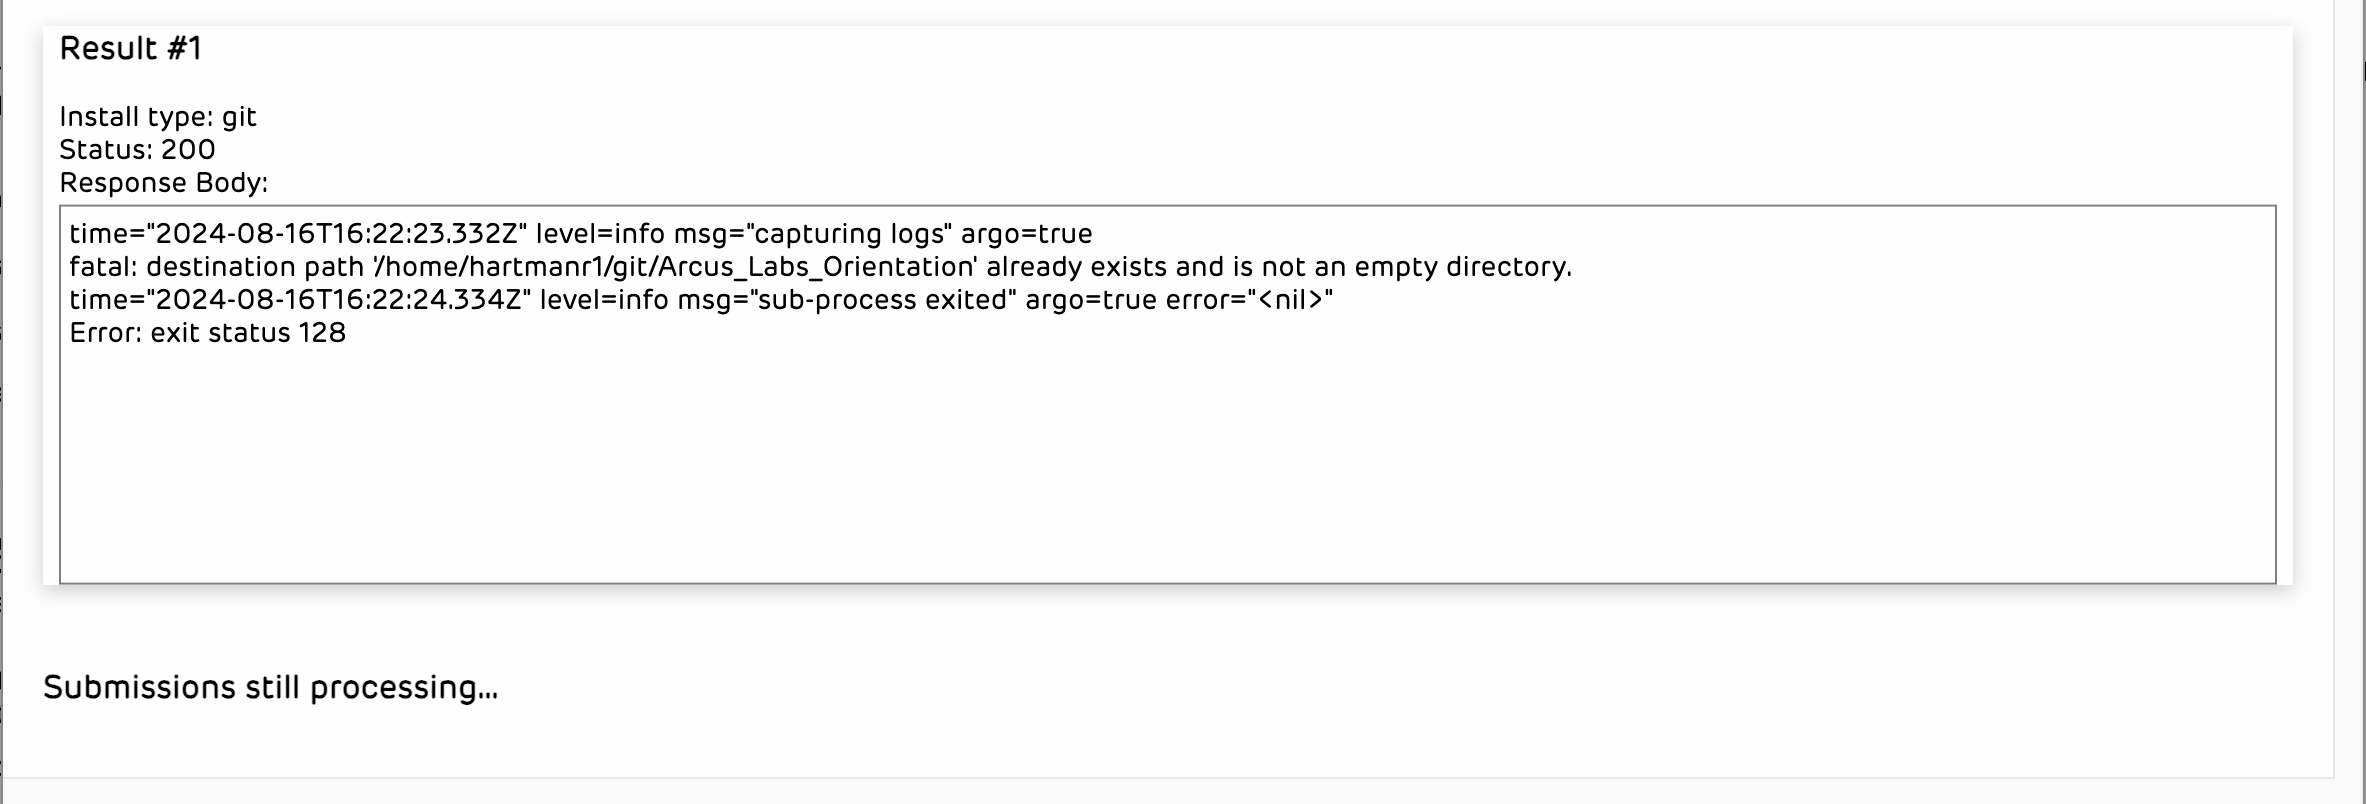
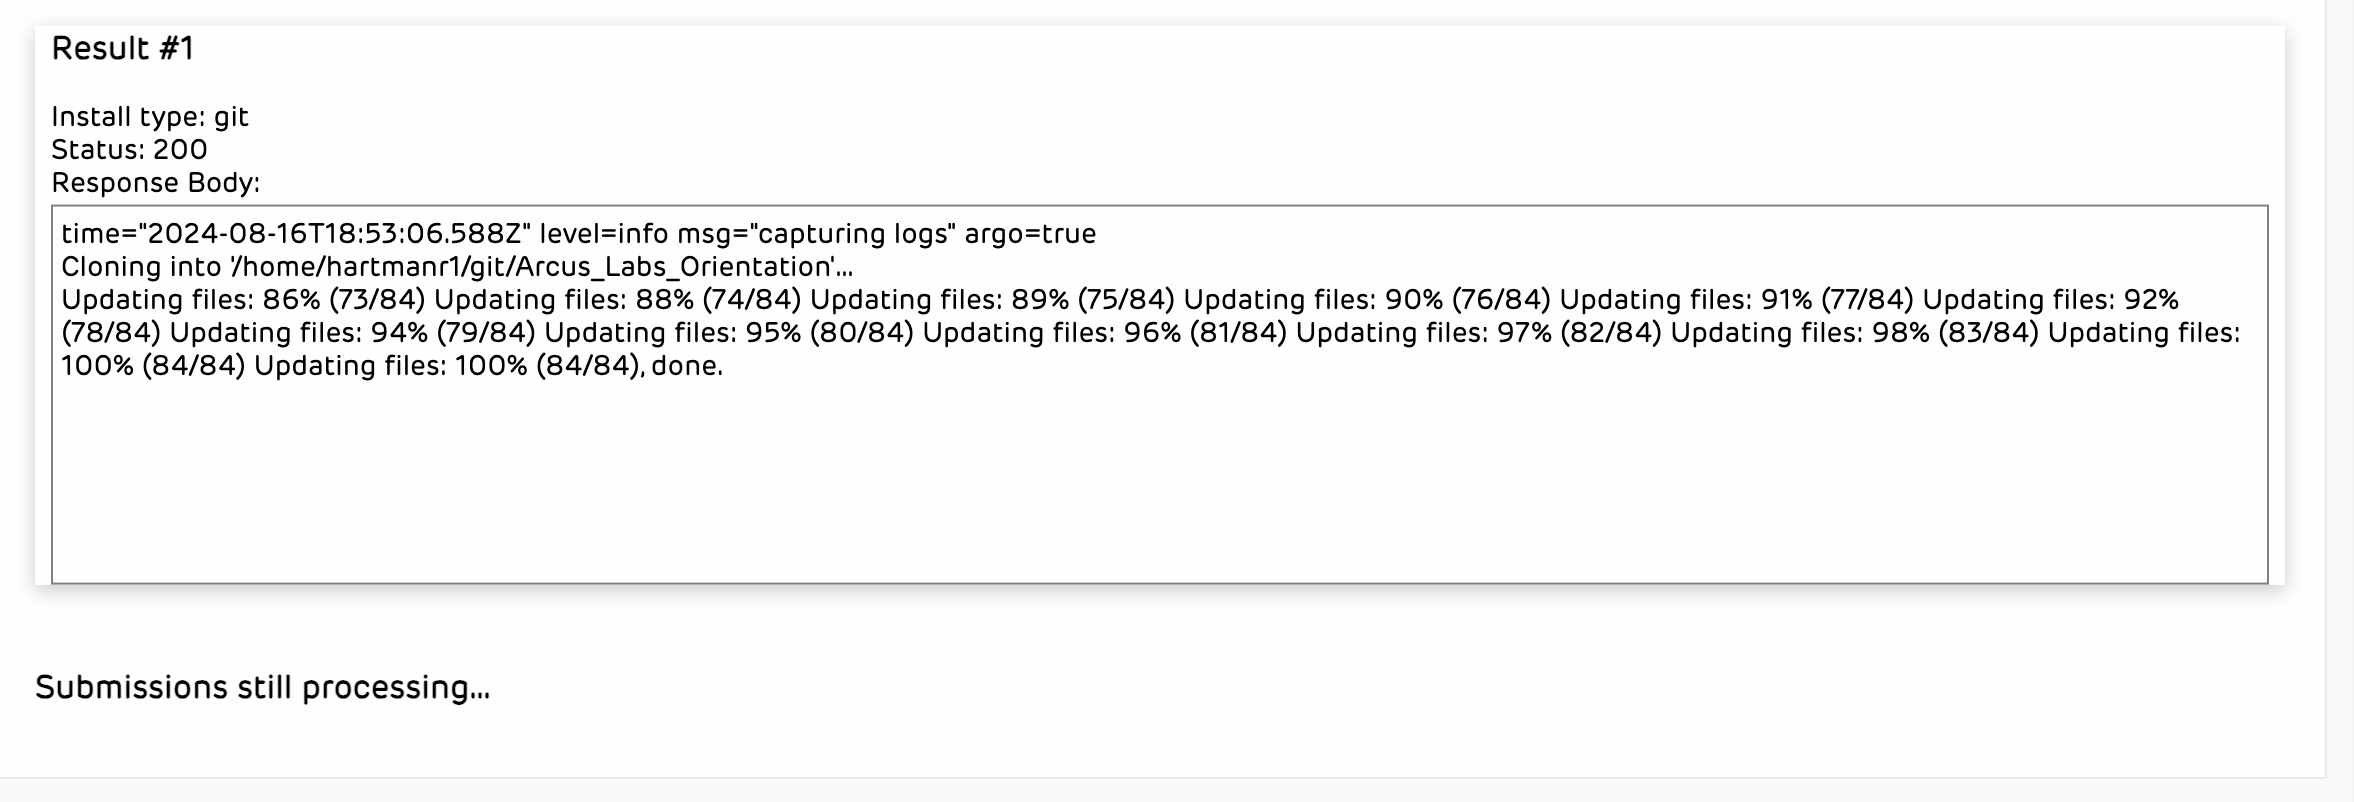
Add explanation for screenshots

diff --git a/arcus_orientation.md b/arcus_orientation.md
@@ -747,14 +747,42 @@ If you want to clone a repository hosted on github.com, you can do that while ke
 
 ![An Arcus Lab dashboard, showing the Tools section with "Install packages, downloads, and more" at the end of the list.](media/install_dashboard.png)
 
+When you open the Install Form tool, select "Git" from the install option drop down menu.
+
 ![The Arcus Install tool, with "Git" selected from the install option drop down menu.](media/install_git.png)
+
+Copy the URL for the repository you wish to clone. 
+Also fill in what you want to use as the local repository name; usually, this will be the same as the repository name, but you can write in something else if you prefer. 
+This will be the name of the directory the files will be saved in in your lab, under the `git` subdirectory within your home directory.
+Enter the name of the branch you wish to clone; if you leave it blank, it will clone the default branch for that repository (usually `main`, or `master` for older repositories).
 
 ![The Arcus Install tool, with "https://github.com/arcus/Arcus_Labs_Orientation" entered for "Enter the URL to the repository you would like to clone." "Arcus_Labs_Orientation" is entered for "Enter local repository name." "Enter branch name" is left blank.](media/install_git_repository.png)
 
+After you click "Submit", it will begin cloning the repository.
+You'll see the directory it's cloning to in the messages on the screen -- this will be `~/git/repository_name` where `~` is your home directory (your CHOP username), and `repository_name` is whatever you entered in the Install form.
+In this example, it's `/home/hartmanr1/git/Arcus_Labs_Orientation`.
+
 ![After you click "Submit," the install form is replaced by a box showing progress cloning the repository. A printed message at the bottom of the box reads "Submissions still processing..."](media/install_git_processing.png)
+
+When cloning is complete, click OK to close the submission status box. 
 
 ![When cloning is complete, the text at the bottom of the box is replaced with "Submissions have finished processing" followed by a button that says "OK."](media/install_git_finished.png)
 
+This repository is now available locally in your lab, saved within the `git` subdirectory of your home directory.
+You can navigate to that directory from within any of the other tools in your Arcus Lab (RStudio, Jupyter, etc.).
+
+Note that [files in your home directory are visible only to you](https://forum.arcus.chop.edu/t/which-files-in-my-lab-are-shared-with-the-rest-of-my-team-and-which-are-just-mine/686).
+If you wish to share these files with the other users in your lab, you'll need to move them to a shared directory, such as your `project` folder.
+
+<div class = "help">
+<b style="color: rgb(var(--color-highlight));">Troubleshooting help</b><br>
+
+Remember that you still won't be able to push to or pull from a repository on public GitHub with internet disabled. 
+The Install form can clone repositories only. 
+
+If you need to push or pull to a repository on public GitHub, you'll need to [enable internet](#lab-status-pane) while you do that, and then you can disable it again afterward.
+
+</div>
 
 ### Using the Command Line with Internet Disabled
 
